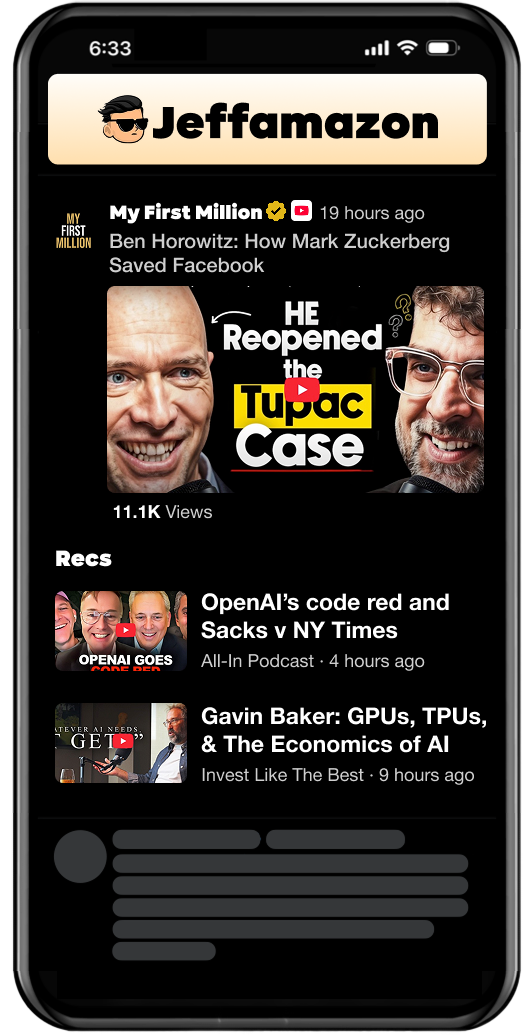
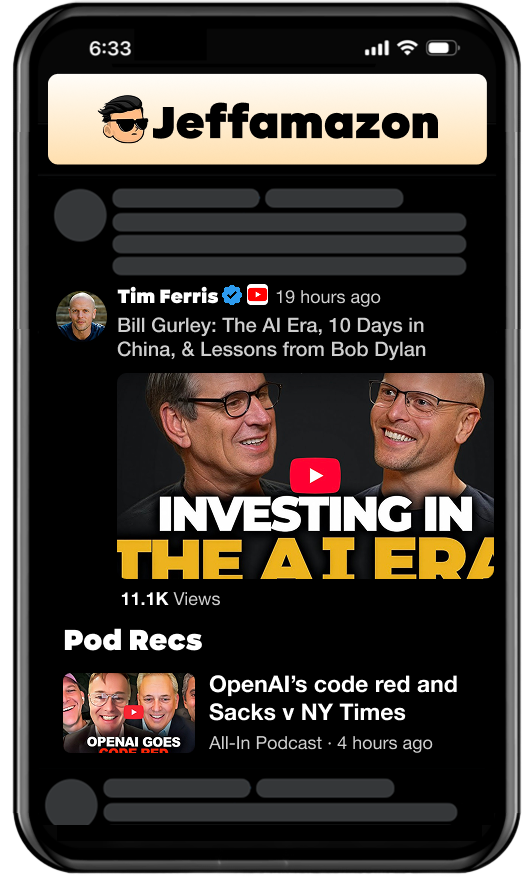
1

diff --git a/app/routes/index.tsx b/app/routes/index.tsx
@@ -3,8 +3,8 @@ import Altcha from '../components/altcha'
 
 import logo from "~/../public/img/ja1.png";
 import header from "~/../public/img/ja3.png";
-import header2 from "~/../public/img/ja6.png";
-import header3 from "~/../public/img/ja7.png";
+import header2 from "~/../public/img/ads/recads.png";
+import header3 from "~/../public/img/ads/recads2.png";
 import cs from "~/../public/img/cs.jpg";
 
 export default function Index() {
